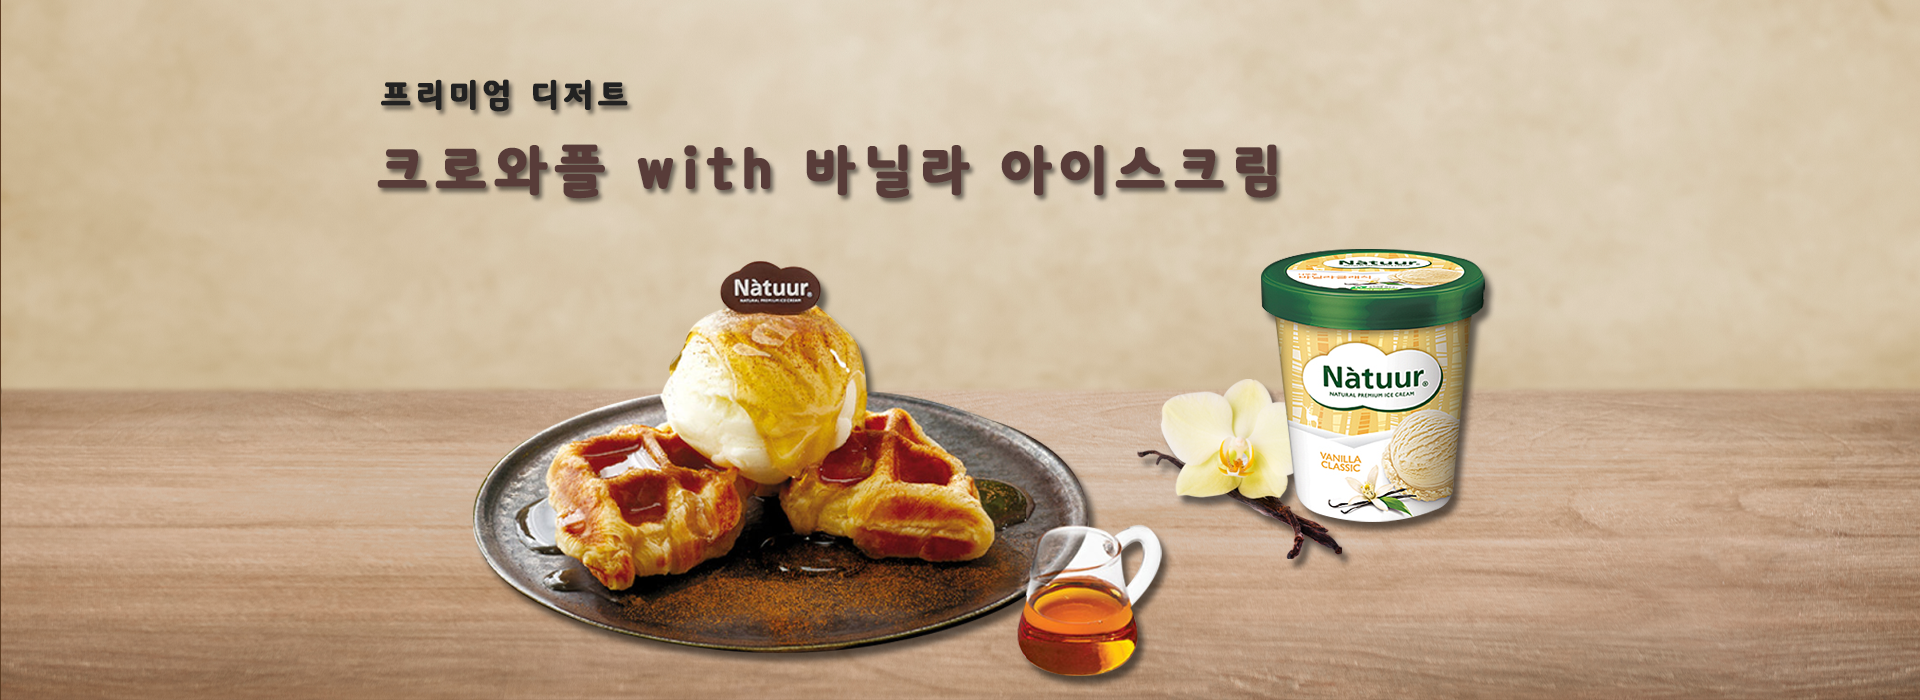
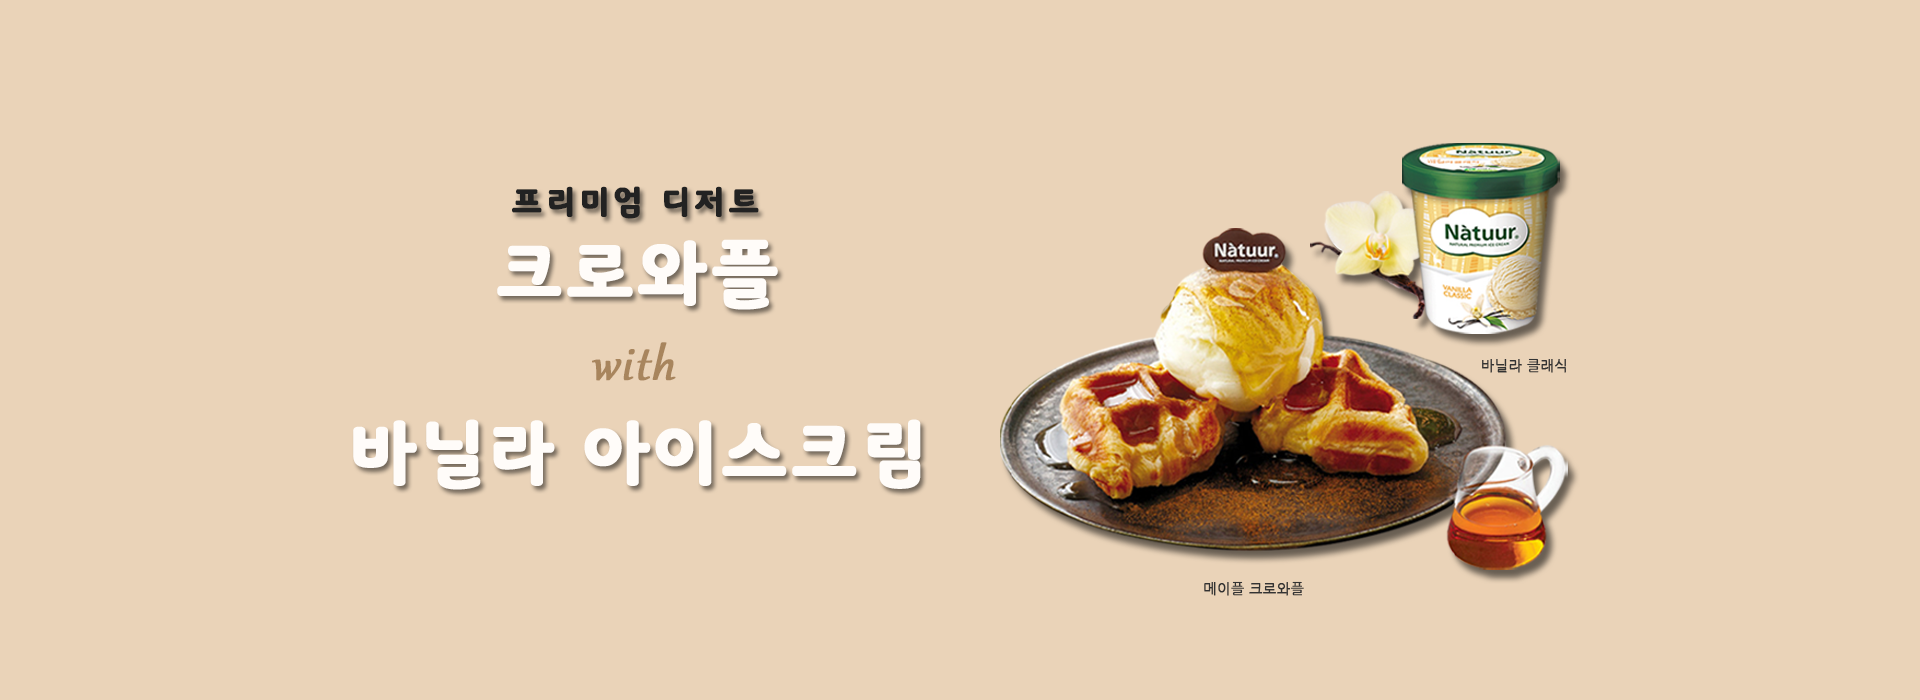
0315

diff --git a/css/sub_menu.css b/css/sub_menu.css
@@ -1,19 +1,22 @@
 .sub_title{
     width:100%; 
     height:300px; 
-    background-image:url(../img/subbanner.png);
+    background-image:url(../img/subbanner2.png);
     background-position:center;
     background-size:cover;
     background-repeat:no-repeat;
     clear:both;
 }
 .sub_title h1{
-    font-size:40px;
+    font-size:90px;
     text-align:center;
-    line-height:150px;
+    line-height:125px;
+    color:#fff;
+    text-shadow:7px 7px 7px #555;
+    letter-spacing:5px;
 }
 .sub_menu{ 
-    margin-top:100px;
+    margin-top:80px;
 }
 
 .sub_menu ul li{
@@ -27,7 +30,9 @@
     text-align:center;
     margin:40px 0;
 }
-
+.box_center{
+    
+}
 .box_center > img:first-child{
     width:25px;
     float:left;
@@ -37,6 +42,11 @@
     float:left;
 }
 
+.box_center h1{
+    font-size:25px;
+    letter-spacing:2px;
+    margin-bottom:80px;
+}
 .box_center h1:after{
     content:"";
     background-image:url(../img/plant.png);
